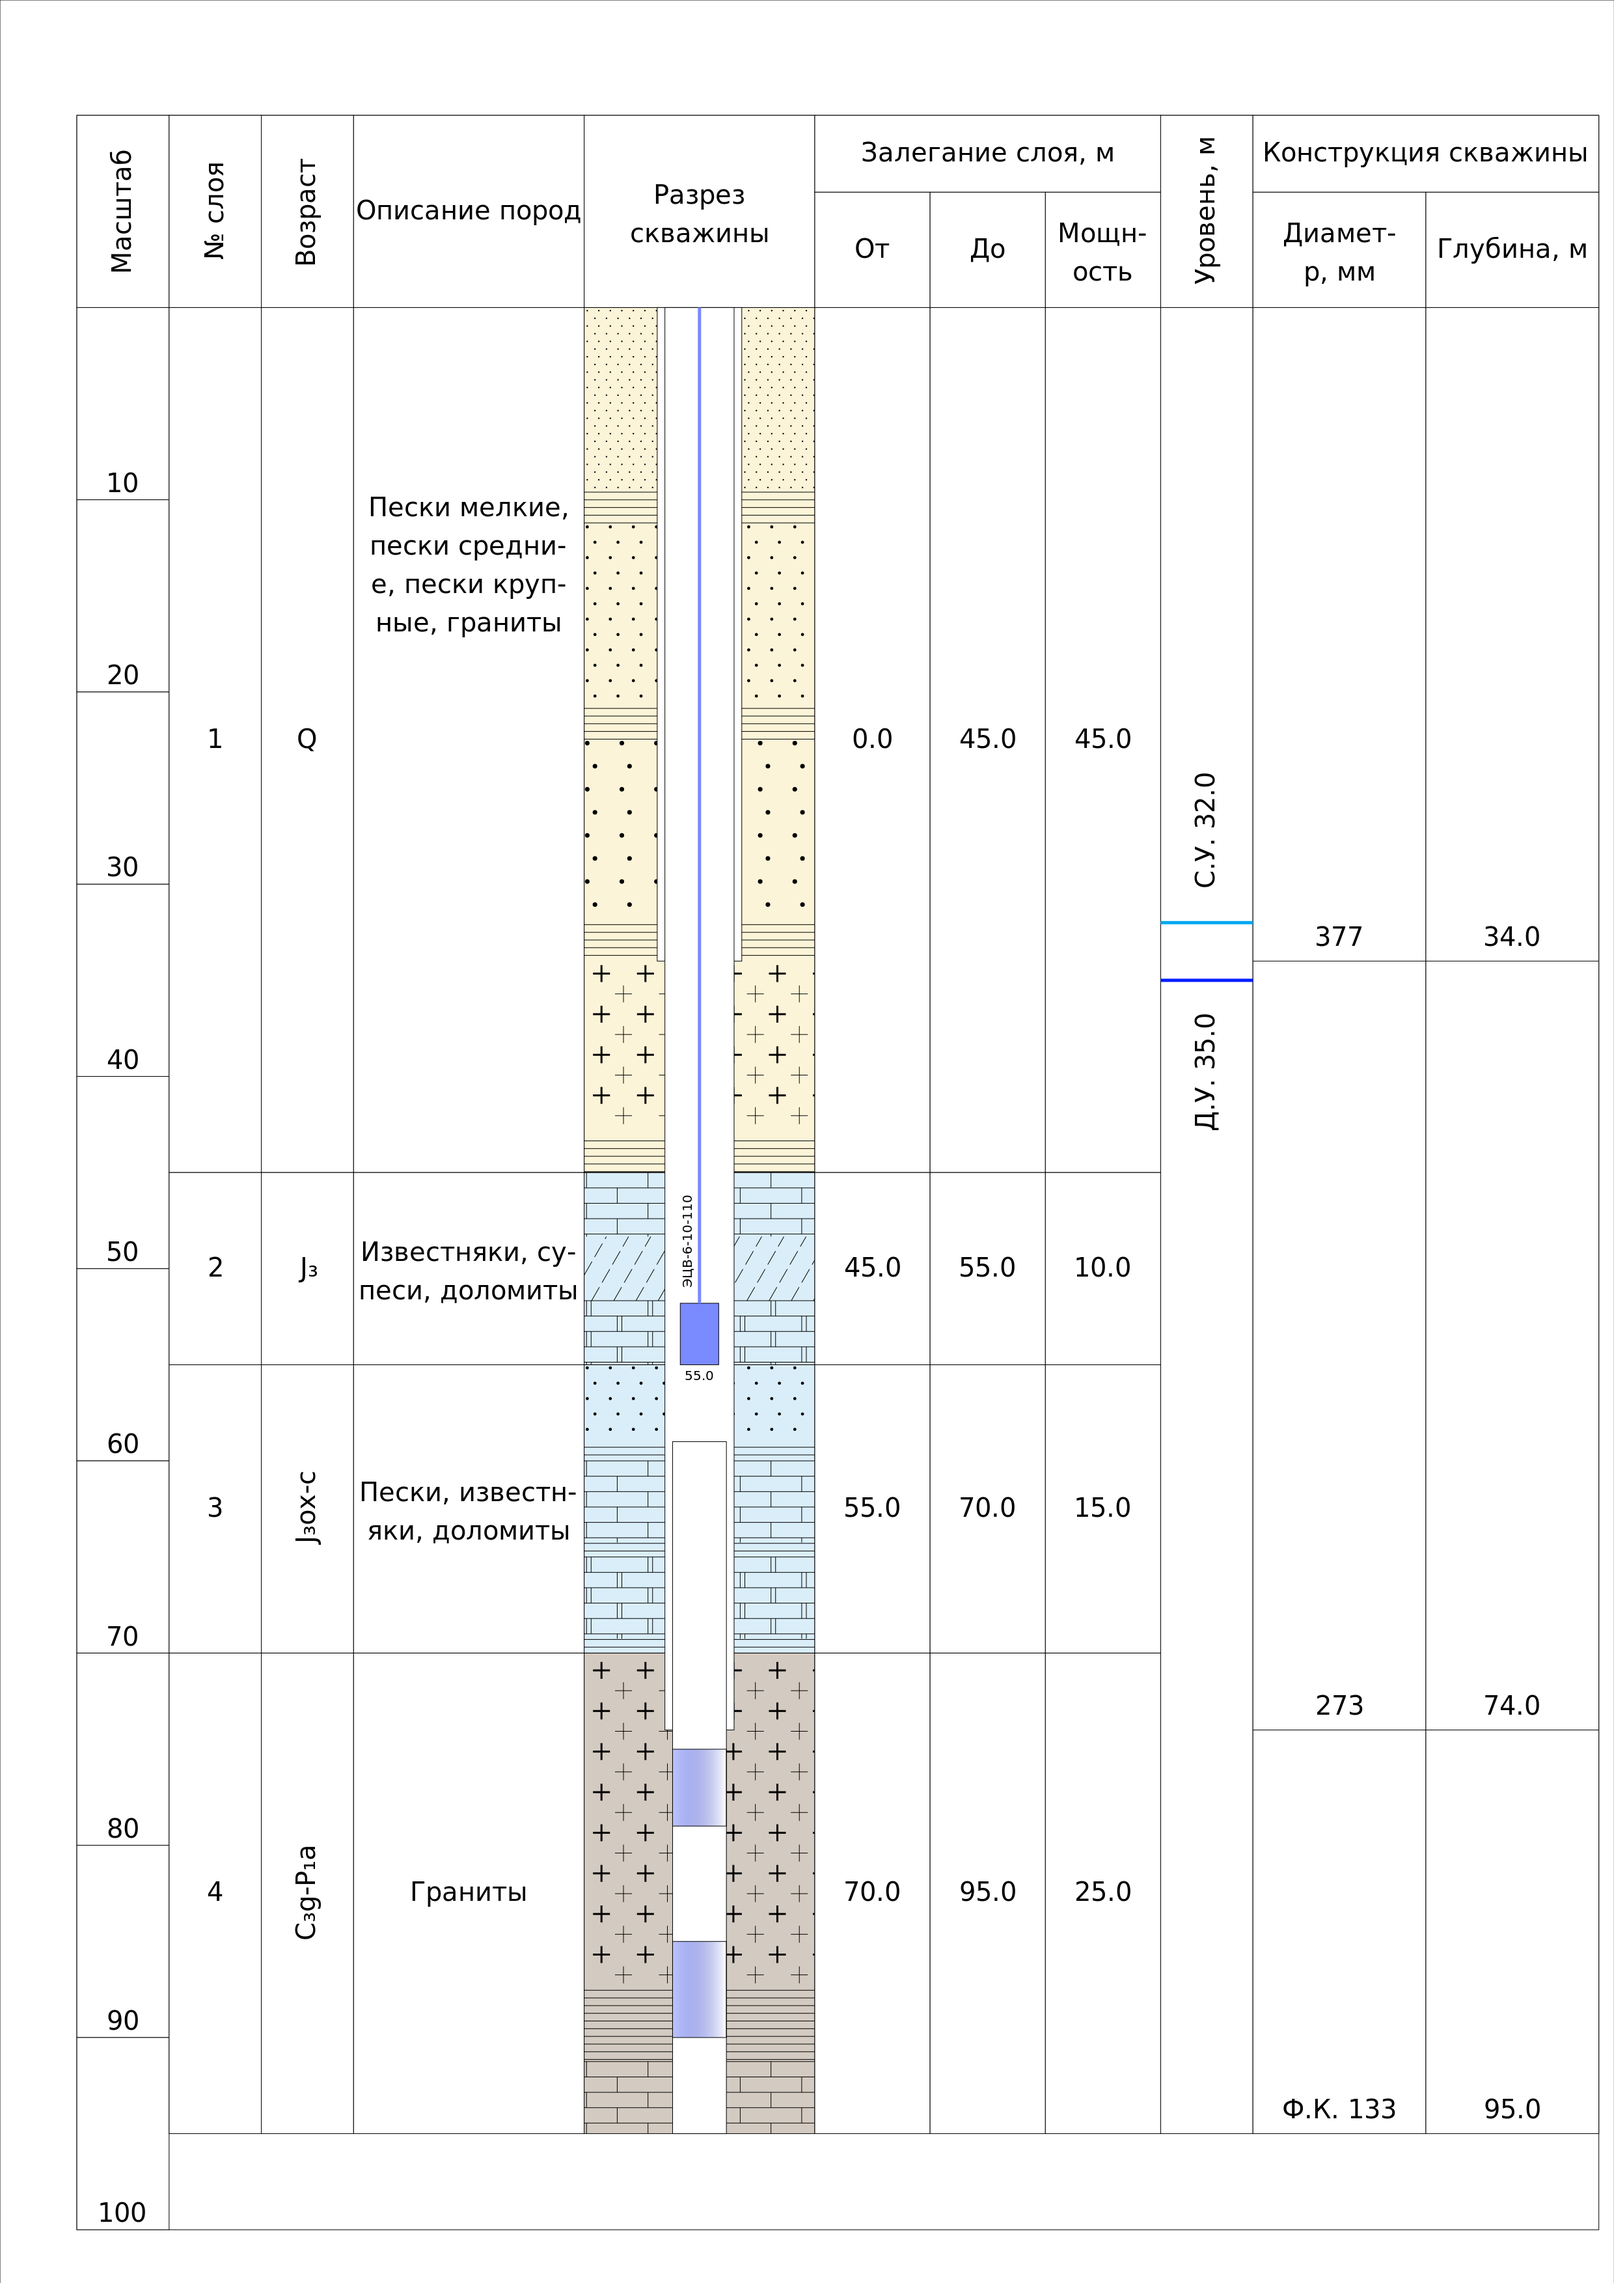
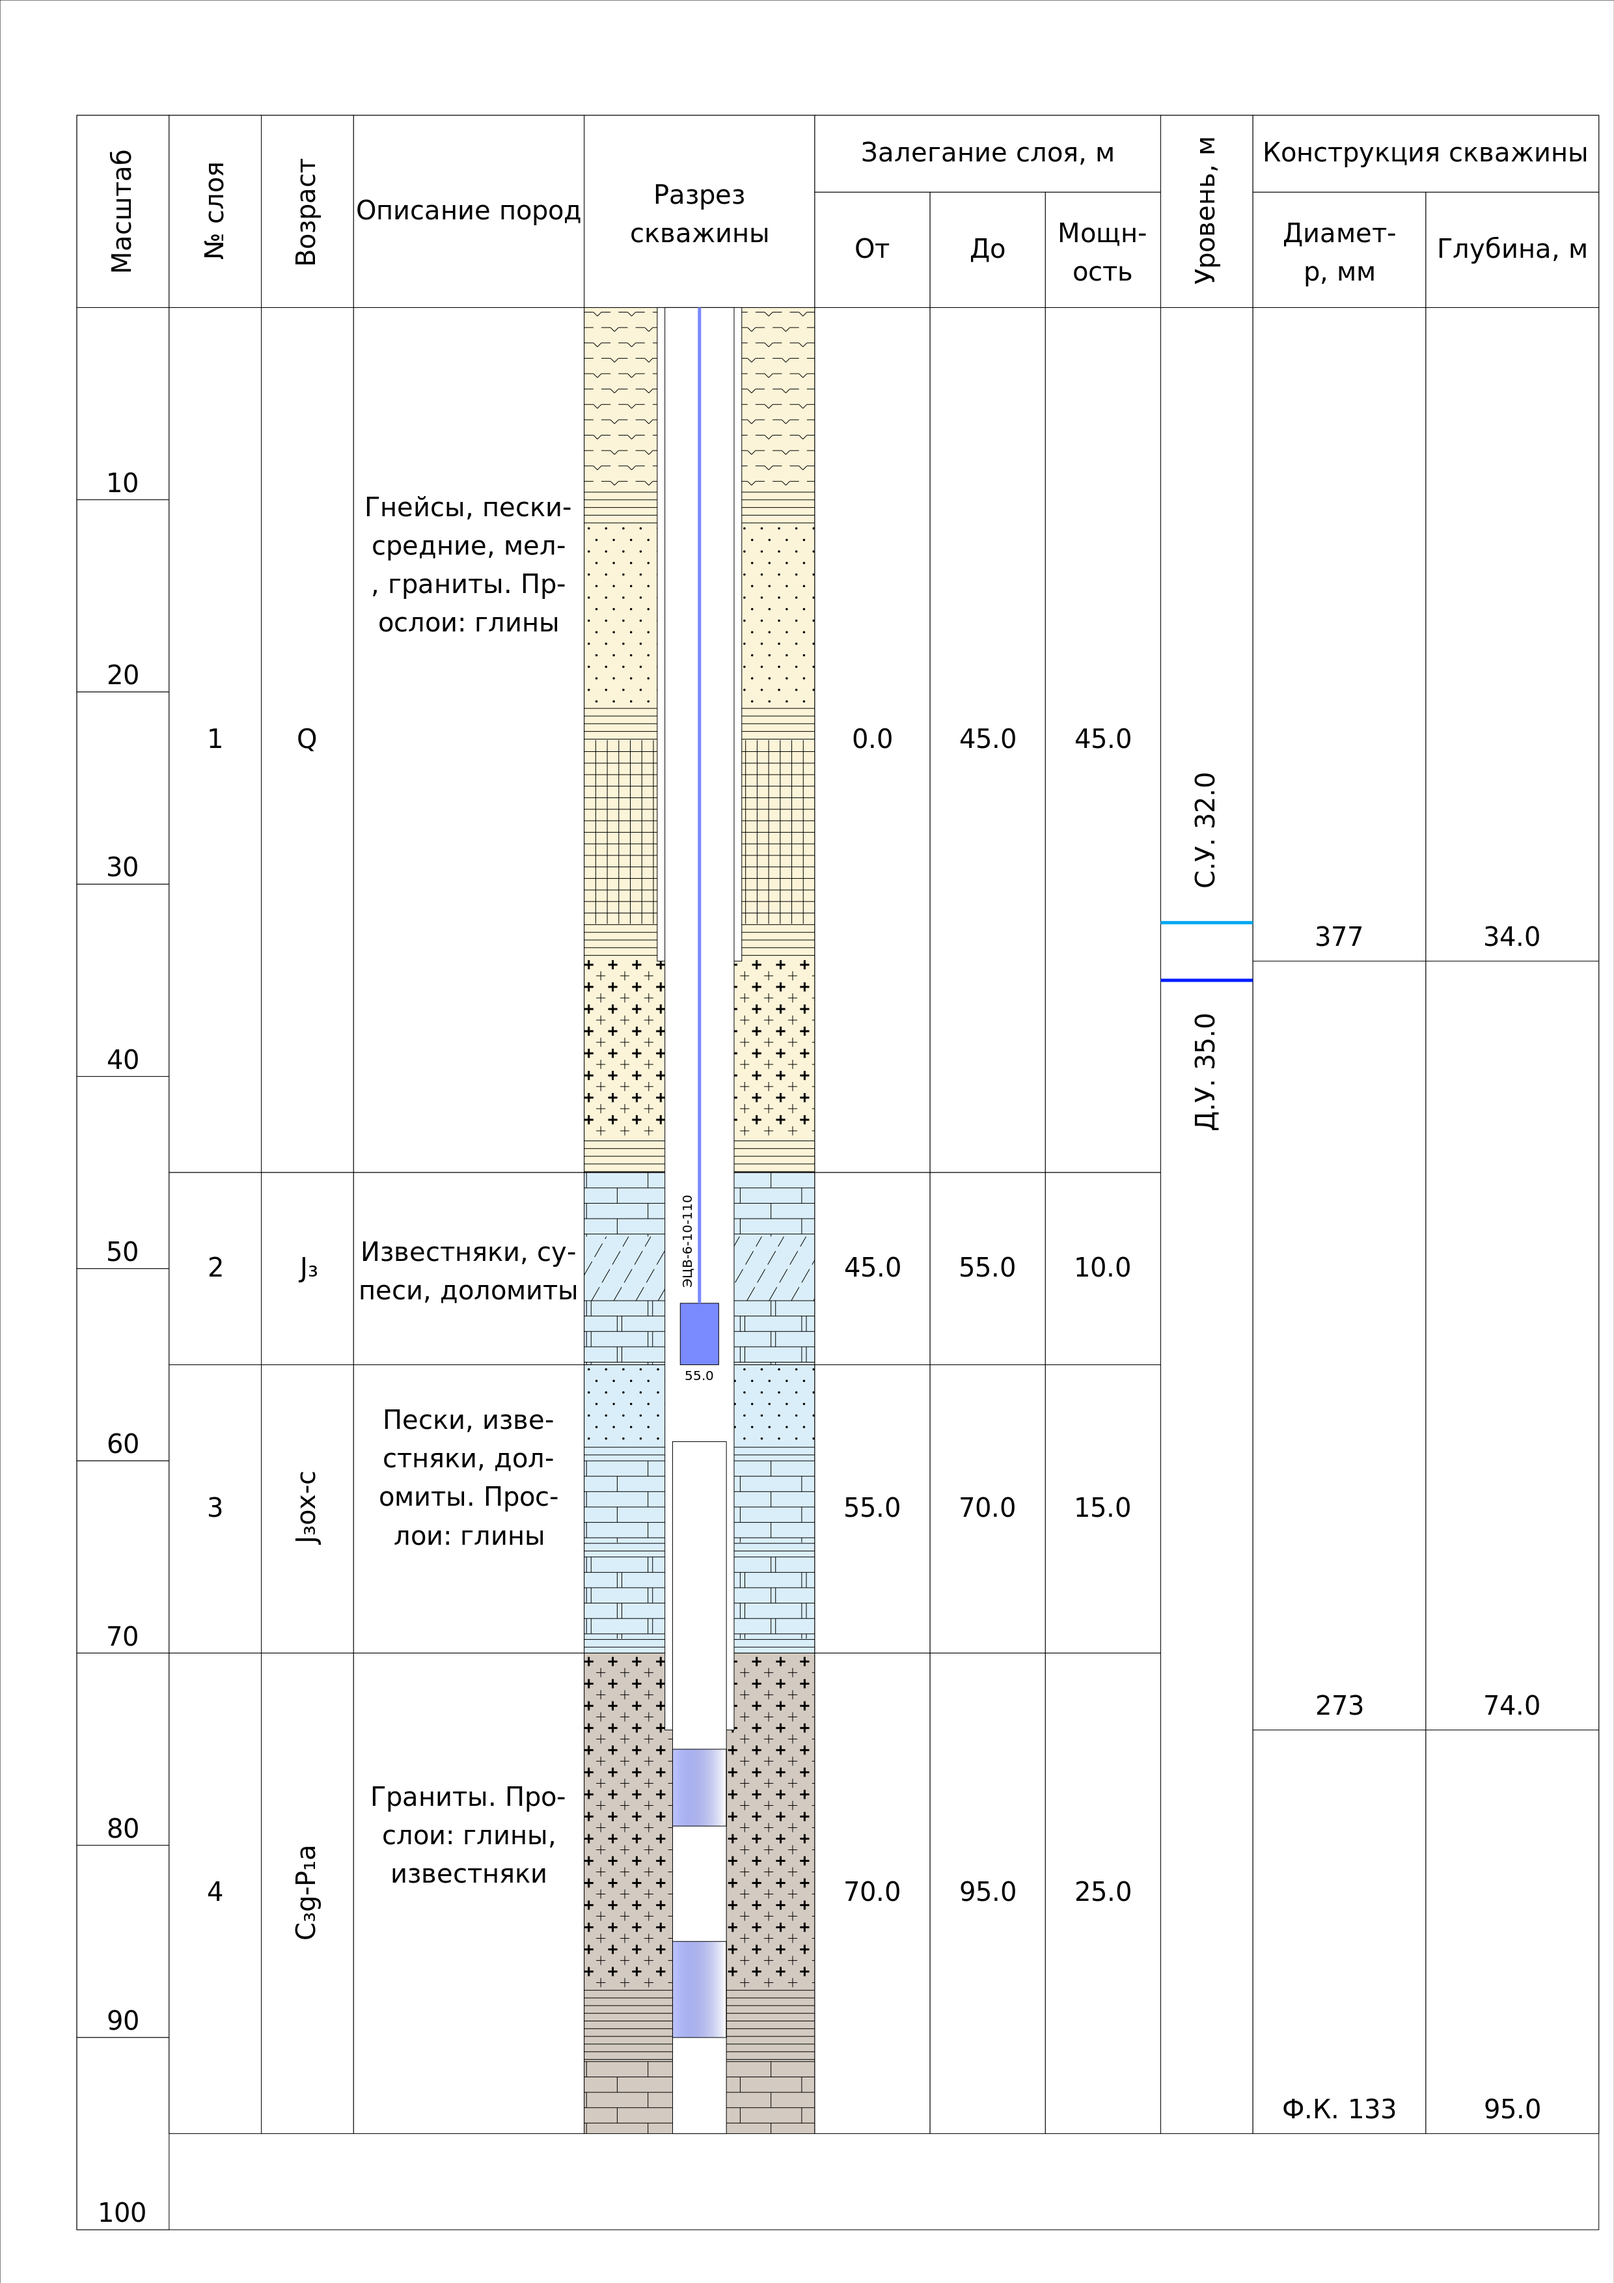
some fix in drawing

diff --git a/drawing/specks.py b/drawing/specks.py
@@ -76,25 +76,41 @@ def scaling(type):
         # начальный отступ
         indent = 0.3
         return delta_x, delta_y, delta, indent
+    elif type == 'sands':
+        delta_x = 3*koef
+        delta_y = 2*koef
+        delta = 0
+        indent = 0.6
+        return delta_x, delta_y, delta, indent
+    # граниты, гнейсы
+    elif type == 'rocks':
+        size = 1.2
+        indent = 0.6
+        delta = 0
+        return size, indent, delta
+    # мел
+    elif type == 'chalk':
+        delta = 3/2*koef
+        return delta
+        
 
 # пески
 def sands(d, x, y, width, height, type):
     # выбор типа песков
     if type == 'крупные':
-       size = 0.3
+       size = 0.2
     if type == 'средние':
-        size = 0.2
+        size = 0.15
     if type == 'мелкие':
         size = 0.1
     # смещение по горизонтали, вертикали, изменение смещения по горизонтали
-    delta_x = 3*koef * (size * 5)
-    delta_y = 2*koef * (size * 5)
-    delta = 0
-    indent = 0.4
+    delta_x, delta_y, delta, indent = scaling('sands')
+    delta_x = delta_x * (size * 5)
+    delta_y = delta_y * (size * 5)
     i = 1
     # стартовые значения
     y_start = (y - indent) * koef
-    while y_start > (y - height + indent) * koef:
+    while y_start > (y - height) * koef:
         x_start = (x + delta + indent) * koef
         while x_start < (width + x) * koef:
             c = draw.Circle(x_start, y_start, size*koef, fill='black')
@@ -464,7 +480,7 @@ def dolomites(d, x, y, width, height):
 # мел
 def chalk(d, x, y, width, height):
     # смещение по горизонтали и вертикали (для мела одинаковое)
-    delta = 3/2*koef
+    delta = scaling('chalk')
     # стартовые значения
     y_start = y * koef - delta
     x_start = x * koef + delta
@@ -525,12 +541,10 @@ def gneisses_speck(d, x, y, size_1):
 # гнейсы
 def gneisses(d, x, y, width, height):
     # масштаб размера
-    size = 2.2
+    size, indent, delta = scaling('rocks')
     # смещение по горизонтали, вертикали, изменение смещения по горизонтали
     delta_x = (40/14) * size * koef + (12/14) * size * koef
     delta_y = 2*koef
-    delta = 0
-    indent = 1
     i = 1
     # стартовые значения
     y_start = (y - indent) * koef
@@ -574,16 +588,14 @@ def granites_speck(d, x, y, size_1, st_width):
 
 def granites(d, x, y, width, height):
     # масштаб размера
-    size = 2.2
+    size, indent, delta = scaling('rocks')
     # смещение по горизонтали, вертикали, изменение смещения по горизонтали
     delta_x = (size + 1.6 * size) * koef
     delta_y = 1.2*size*koef
-    delta = 1.15
-    indent = size/2
     i = 1
     # стартовые значения
     st_width = 3
-    y_start = (y - indent - 1.15) * koef
+    y_start = (y - 2*indent + 0.1) * koef
     while y_start > (y - height + indent) * koef:
         x_start = (x + delta) * koef
         while x_start < (width + x) * koef:

diff --git a/drawing/main.py b/drawing/main.py
@@ -185,6 +185,8 @@ def layers(d, well_depth, dt):
         x_start += 12
         # преобразование отложений из кортежа в строку для описания разреза
         sediments_text = (', '.join(data[i]['sediments'])).capitalize()
+        if 'interlayers' in data[i]:
+            sediments_text += '. Прослои: ' + ', '.join(data[i]['interlayers'])
         rectangle(d, x_start, y_start, 30, -
                   data[i]['thick']*scale_m, sediments_text, 'h')
         x_start += 30
@@ -356,7 +358,7 @@ def well(d, well_dt):
 
 well_data = {
     'layers': {
-        1: {'id': 1, 'name': 'Q', 'thick': 45.0, 'sediments': ('пески мелкие', 'пески средние', 'пески крупные', 'граниты'), 'interlayers':('глины',)},
+        1: {'id': 1, 'name': 'Q', 'thick': 45.0, 'sediments': ('гнейсы', 'пески средние', 'мел', 'граниты'), 'interlayers':('глины',)},
         2: {'id': 2, 'name': 'J\u2083', 'thick': 10, 'sediments': ('известняки', 'супеси', 'доломиты')},
         3: {'id': 3, 'name': 'J\u2083ox-c', 'thick': 15, 'sediments': ('пески', 'известняки', 'доломиты'), 'interlayers':('глины',)},
         4: {'id': 4, 'name': 'C\u2083g-P\u2081a', 'thick': 25, 'sediments': ('граниты',), 'interlayers':('глины', 'известняки')}
